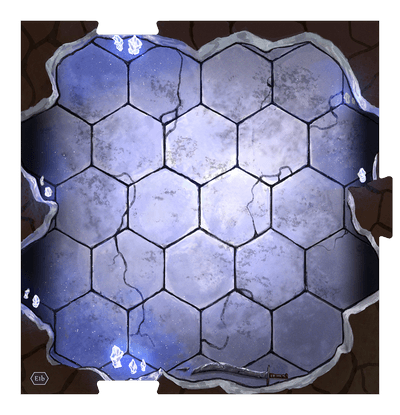
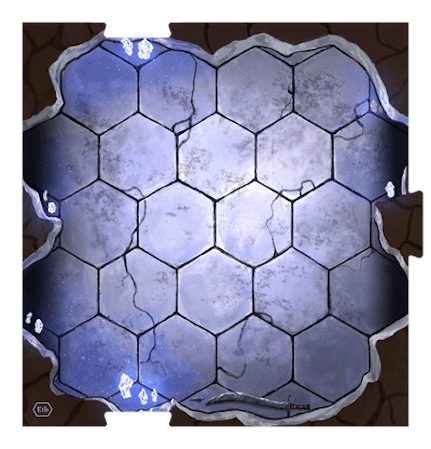
Adds E tile set and normalizes images

diff --git a/static/scss/main.scss b/static/scss/main.scss
@@ -70,6 +70,9 @@ $hexRotation: 60deg;
             ('d1b', -59px, -44px)
             ('d2a', -59px, -44px)
             ('d2b', -59px, -44px)
+
+            ('e1a', 14px, -38px)
+            ('e1b', 14px, -38px)
         ;
         @each $tile in $tiles {
             $key: nth($tile, 1);
